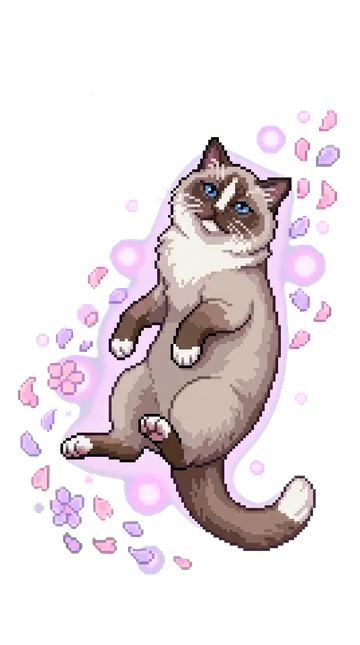
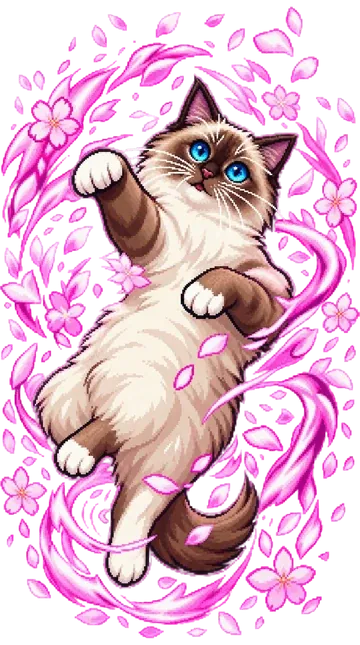
Puiutu: Scottish Fold and Ragdoll skin cards redrawn in the style of the other skins
New art from site/art_src; SKIN_ART_TRIM updated to the new content boxes.
Old files kept in _unused/skins_old (not committed).

diff --git a/life_of_puiutu_game.html b/life_of_puiutu_game.html
@@ -15902,8 +15902,8 @@ function gachaPool(rar){
 }
 // content box [x0,y0,x1,y1] of each skins/cards/skin_<id>_big.webp (alpha > 128, so faint stray pixels don't count)
 const SKIN_ART_TRIM={abyssinian:[13,162,696,1166], american:[24,43,696,1252], angora:[49,80,671,998], british:[40,118,691,1236],
-  calico:[14,162,701,1155], goldbengal:[24,209,701,1242], mainecoon:[51,163,706,1167], ragdoll:[36,220,680,1149],
-  russianblue:[13,194,707,1153], scottish:[15,178,720,1290], siamese:[78,172,663,1182], silvbengal:[51,156,667,1183],
+  calico:[14,162,701,1155], goldbengal:[24,209,701,1242], mainecoon:[51,163,706,1167], ragdoll:[0,14,720,1276],
+  russianblue:[13,194,707,1153], scottish:[0,33,720,1257], siamese:[78,172,663,1182], silvbengal:[51,156,667,1183],
   sphynx:[56,177,664,1204]};
 // per-skin zoom on top of the fill rule (<1 = zoomed out, shows more of the art around the cat)
 const SKIN_ART_ZOOM={american:.88};
